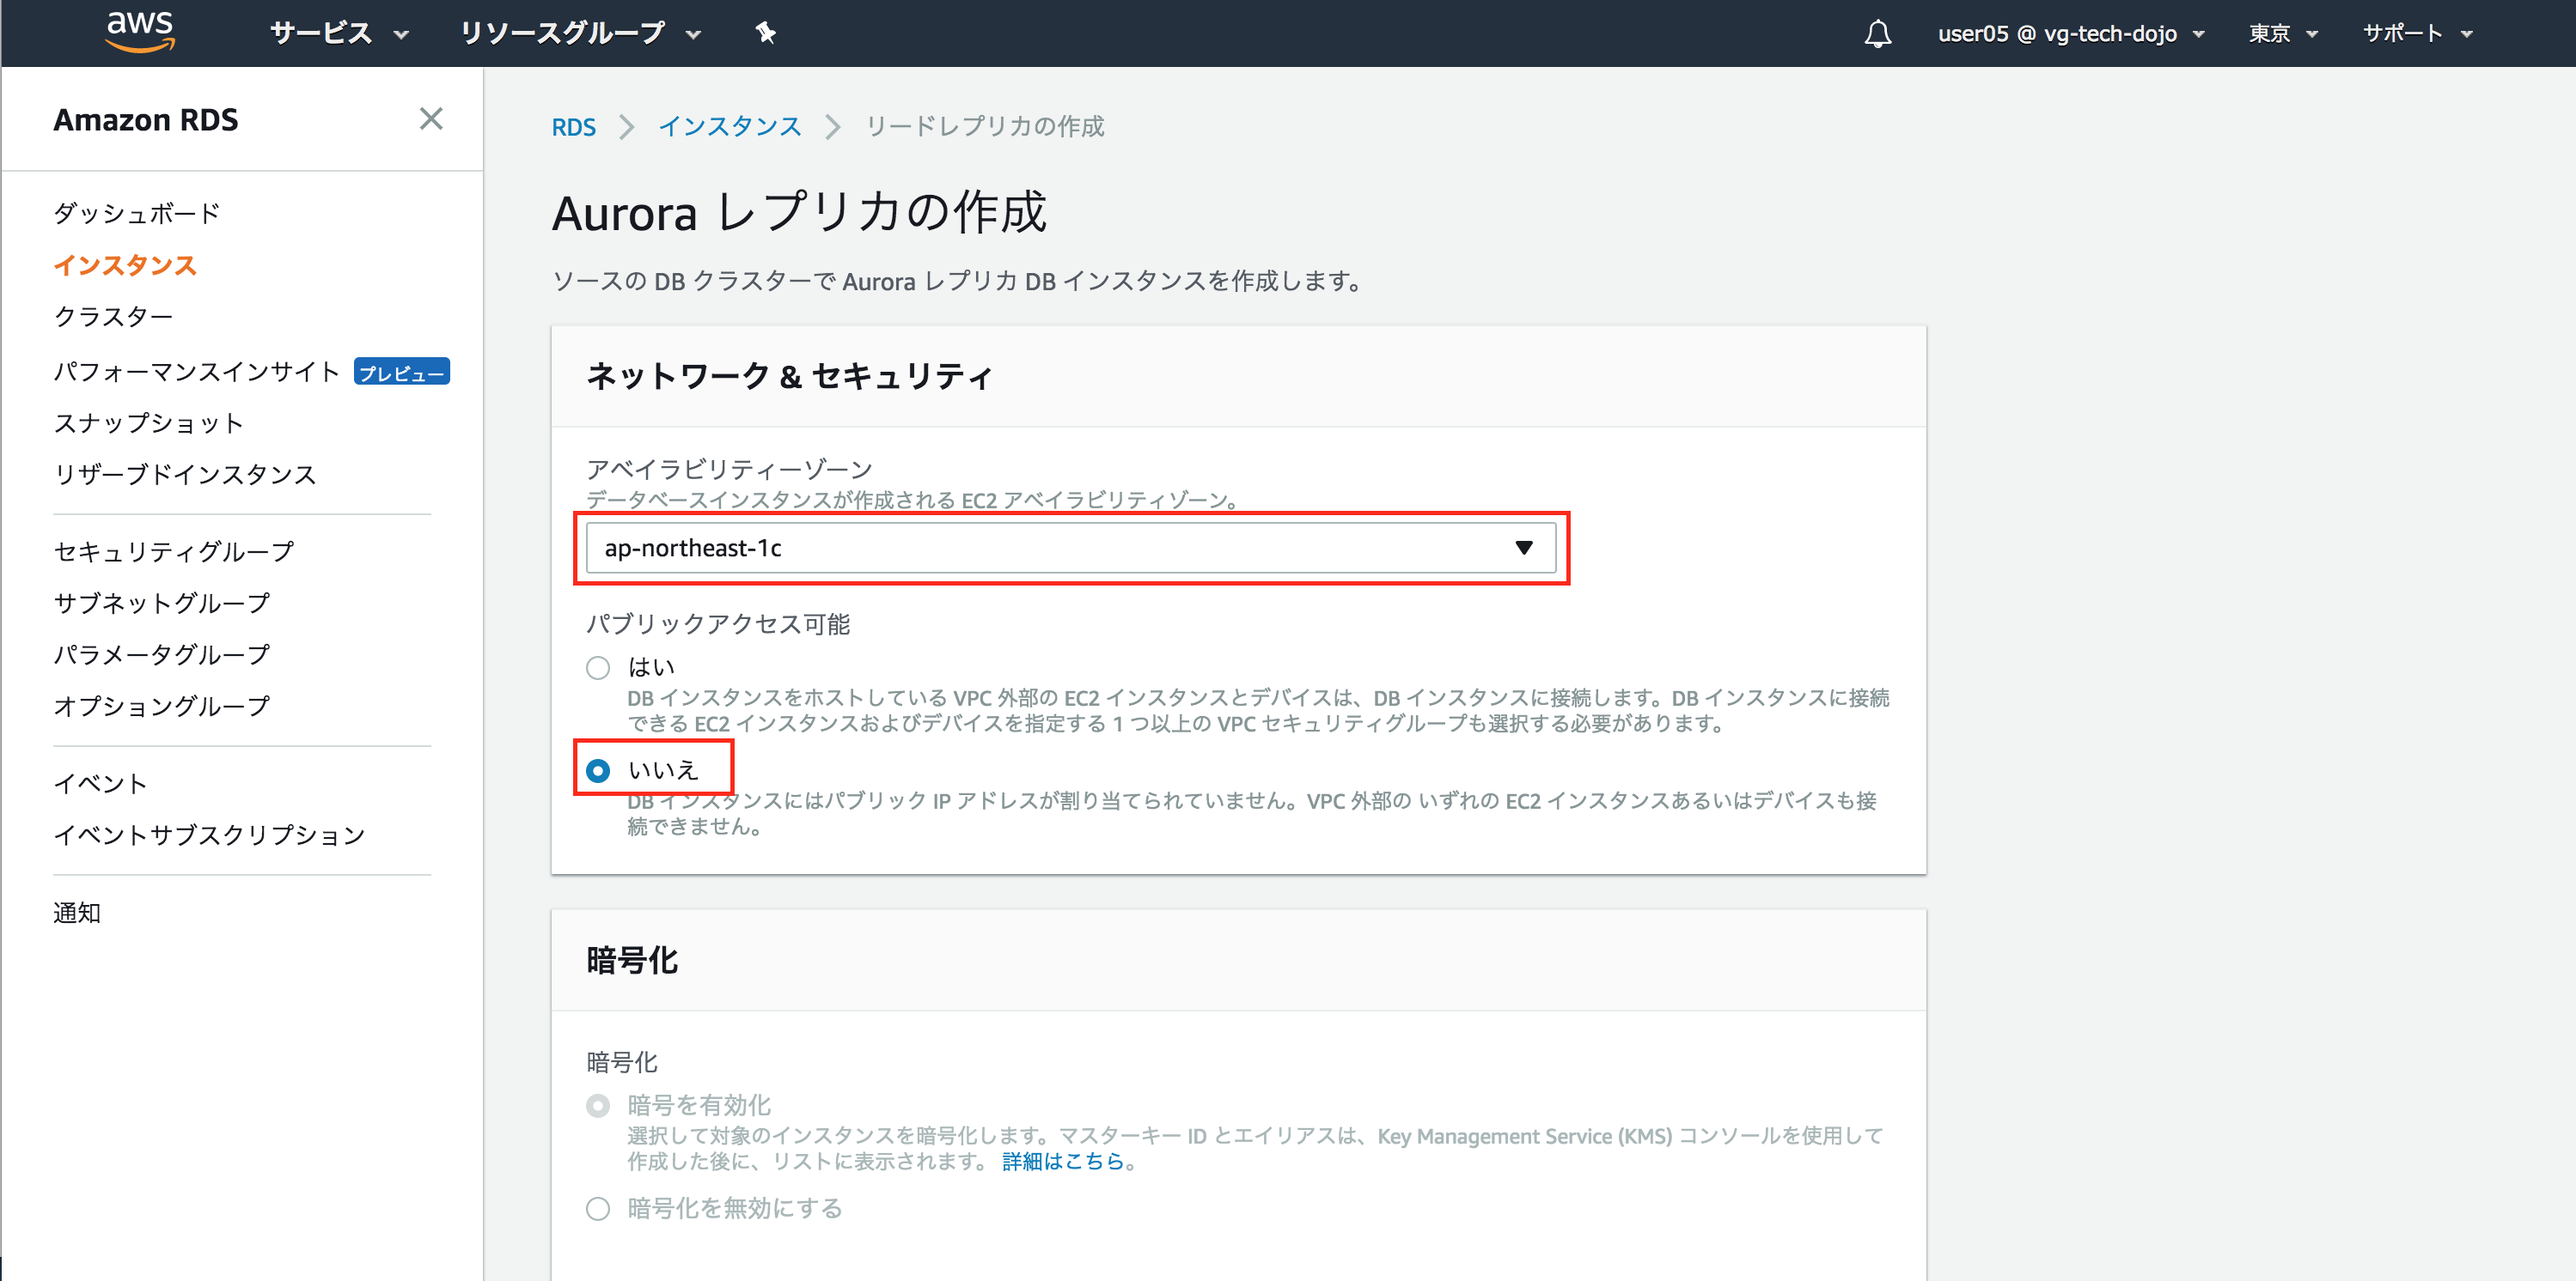
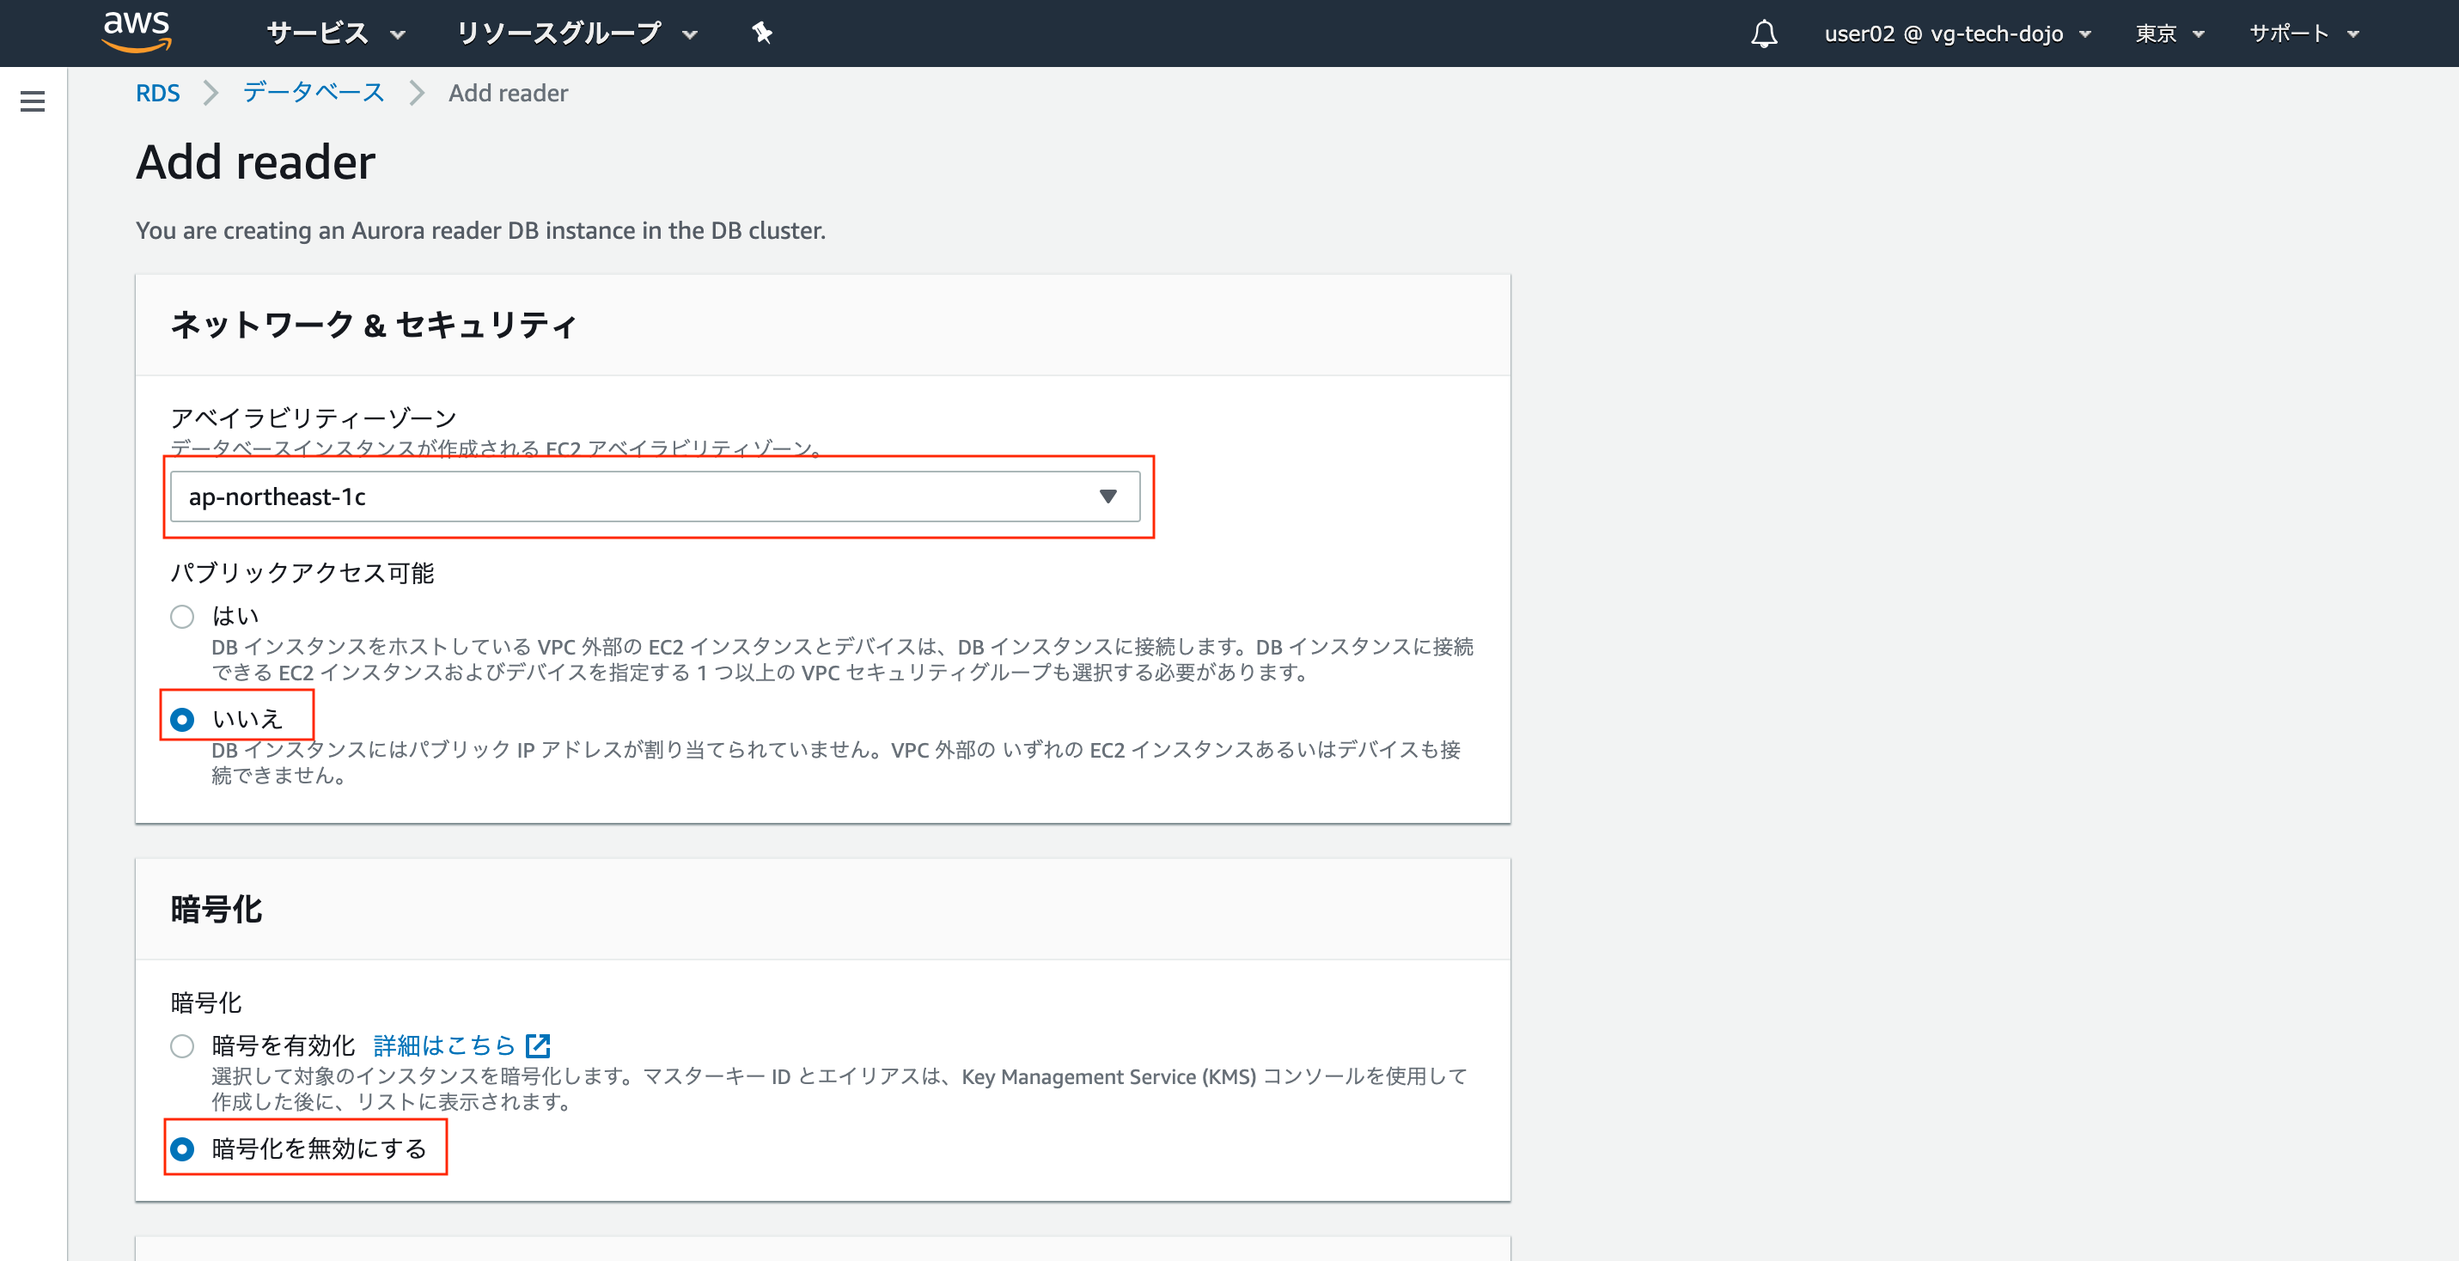
commit

diff --git a/Step-3.md b/Step-3.md
@@ -24,7 +24,7 @@ AWS MultiA-Zについて調べてみましょう(10分)
 ![multiaz-2](./images/step-3/multiaz-2.png "MULTIAZ2")
 
 ----
-**アベイラビリティゾーンはap-northeast-1cを選択、インターネットゲートウェイからのアクセスは抑止するためパブリックアクセス可能では"いいえ”を選択**
+**アベイラビリティゾーンはap-northeast-1cを選択、インターネットゲートウェイからのアクセスは抑止するためパブリックアクセス可能では"いいえ”を選択。暗号化を無効にするを選択**
 
 ![multiaz-3-1](./images/step-3/multiaz-3-1.png "MULTIAZ3-1")
 
